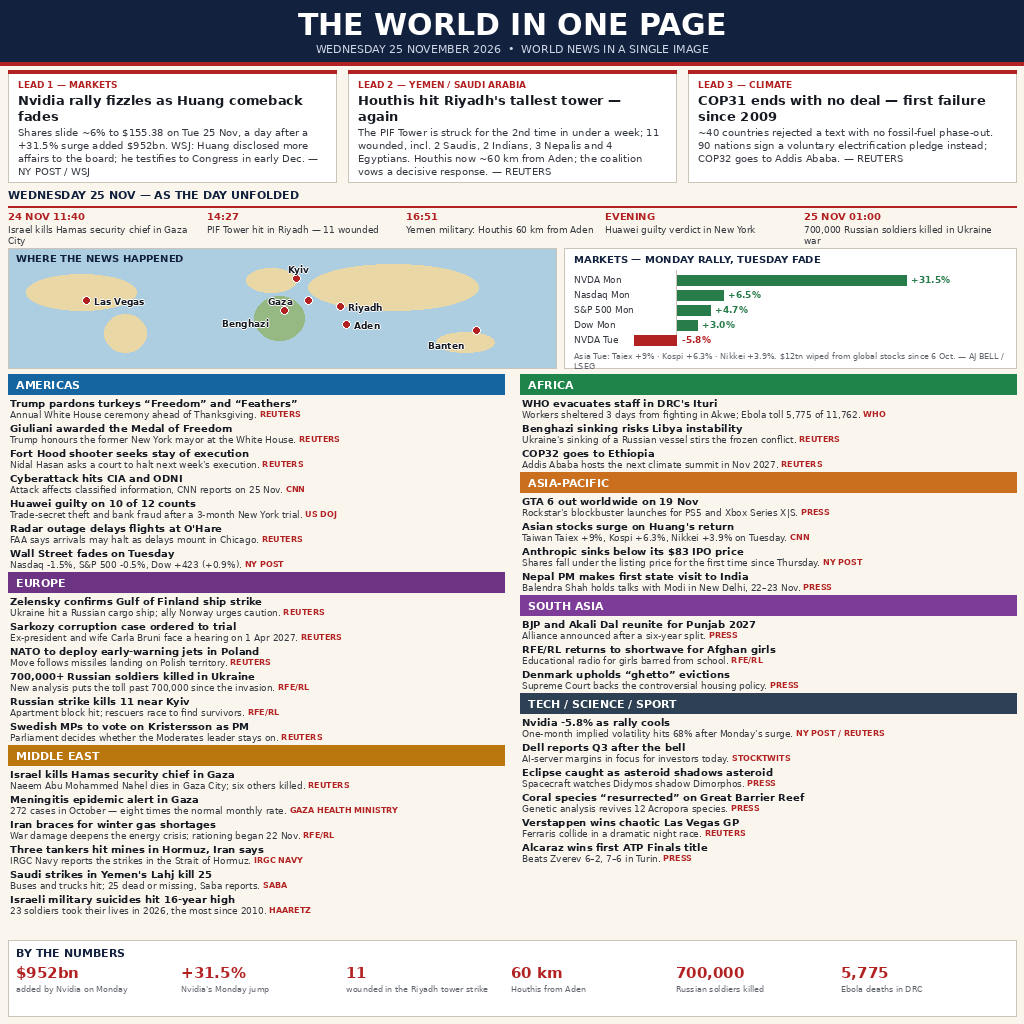
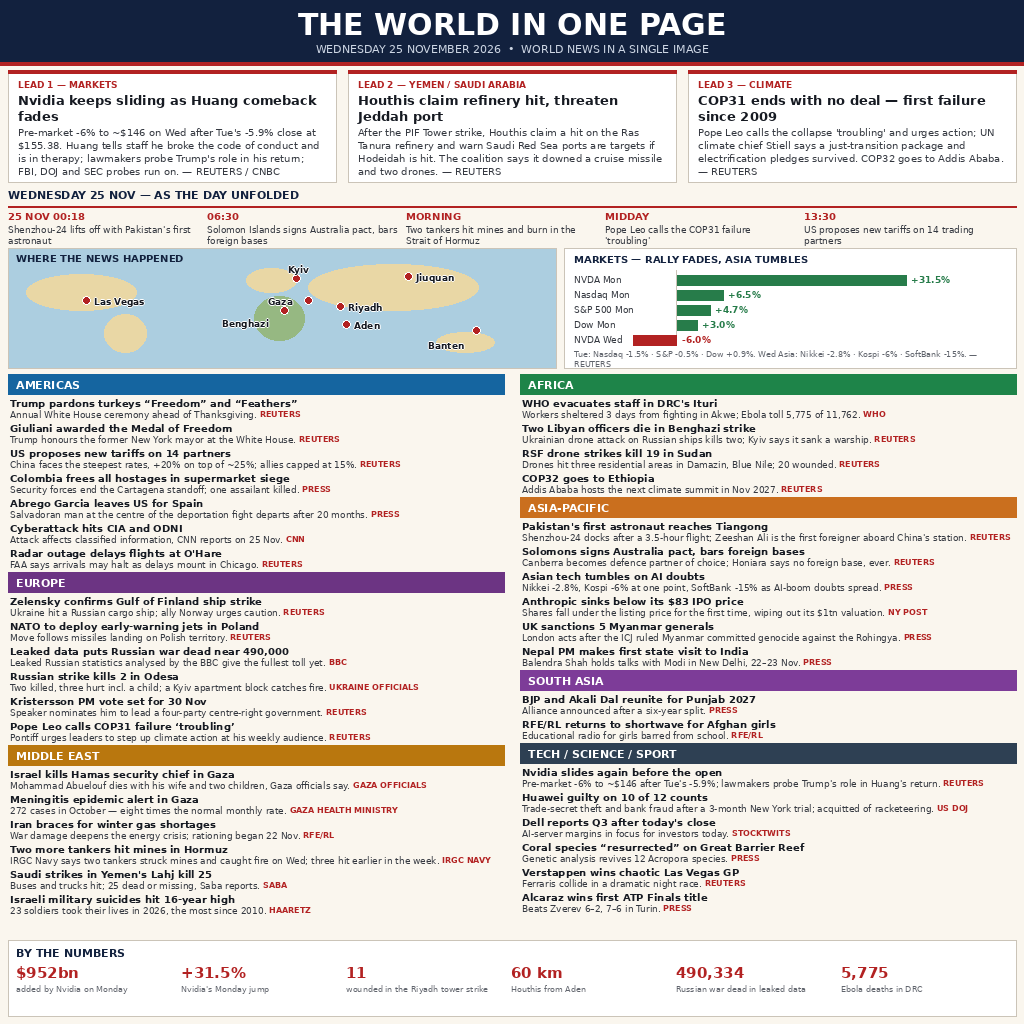
news-image-20261125: evening refresh, full day's news for Wed 25 Nov 2026
40 stories: Nvidia slide continues pre-market, Houthis claim Ras Tanura
hit, Hormuz tankers burn, Shenzhou-24 flies Pakistan's first astronaut,
Solomons signs Australia pact, US proposes tariffs on 14 partners.
Timeline, markets panel and By the Numbers updated; render verified
visually at full size.

diff --git a/draw_news.py b/draw_news.py
@@ -2,6 +2,10 @@
 """Render 'The World in One Page' — a dense 1024x1024 newspaper front page
 summarising the world news of Wednesday 25 November 2026.
 
+Evening refresh (21:00 WIB): the full day's news — Nvidia's slide continues,
+Houthi claims widen, Hormuz tankers burn, Shenzhou-24 flies, Solomons signs
+its Australia pact, and the US proposes new tariffs on 14 partners.
+
 Run:  python3 draw_news.py        -> writes entry.png next to this script.
 Only the Python standard library plus Pillow is used; fonts are the system
 DejaVu faces. Everything on the page is drawn from the story tables below.
@@ -120,28 +124,30 @@ class Column:
 # ---------------------------------------------------------------- content
 LEADS = [
     ("LEAD 1 — MARKETS",
-     "Nvidia rally fizzles as Huang comeback fades",
-     "Shares slide ~6% to $155.38 on Tue 25 Nov, a day after a +31.5% surge "
-     "added $952bn. WSJ: Huang disclosed more affairs to the board; he "
-     "testifies to Congress in early Dec. — NY POST / WSJ"),
+     "Nvidia keeps sliding as Huang comeback fades",
+     "Pre-market -6% to ~$146 on Wed after Tue's -5.9% close at $155.38. "
+     "Huang tells staff he broke the code of conduct and is in therapy; "
+     "lawmakers probe Trump's role in his return; FBI, DOJ and SEC probes "
+     "run on. — REUTERS / CNBC"),
     ("LEAD 2 — YEMEN / SAUDI ARABIA",
-     "Houthis hit Riyadh's tallest tower — again",
-     "The PIF Tower is struck for the 2nd time in under a week; 11 wounded, "
-     "incl. 2 Saudis, 2 Indians, 3 Nepalis and 4 Egyptians. Houthis now "
-     "~60 km from Aden; the coalition vows a decisive response. — REUTERS"),
+     "Houthis claim refinery hit, threaten Jeddah port",
+     "After the PIF Tower strike, Houthis claim a hit on the Ras Tanura "
+     "refinery and warn Saudi Red Sea ports are targets if Hodeidah is "
+     "hit. The coalition says it downed a cruise missile and two drones. "
+     "— REUTERS"),
     ("LEAD 3 — CLIMATE",
      "COP31 ends with no deal — first failure since 2009",
-     "~40 countries rejected a text with no fossil-fuel phase-out. 90 nations "
-     "sign a voluntary electrification pledge instead; COP32 goes to Addis "
-     "Ababa. — REUTERS"),
+     "Pope Leo calls the collapse 'troubling' and urges action; UN climate "
+     "chief Stiell says a just-transition package and electrification "
+     "pledges survived. COP32 goes to Addis Ababa. — REUTERS"),
 ]
 
 TIMELINE = [
-    ("24 NOV 11:40", "Israel kills Hamas security chief in Gaza City"),
-    ("14:27", "PIF Tower hit in Riyadh — 11 wounded"),
-    ("16:51", "Yemen military: Houthis 60 km from Aden"),
-    ("EVENING", "Huawei guilty verdict in New York"),
-    ("25 NOV 01:00", "700,000 Russian soldiers killed in Ukraine war"),
+    ("25 NOV 00:18", "Shenzhou-24 lifts off with Pakistan's first astronaut"),
+    ("06:30", "Solomon Islands signs Australia pact, bars foreign bases"),
+    ("MORNING", "Two tankers hit mines and burn in the Strait of Hormuz"),
+    ("MIDDAY", "Pope Leo calls the COP31 failure 'troubling'"),
+    ("13:30", "US proposes new tariffs on 14 trading partners"),
 ]
 
 # (panel title, colour, [(headline, body, source tag), ...])
@@ -151,40 +157,40 @@ REGIONS_LEFT = [
          "Annual White House ceremony ahead of Thanksgiving.", "REUTERS"),
         ("Giuliani awarded the Medal of Freedom",
          "Trump honours the former New York mayor at the White House.", "REUTERS"),
-        ("Fort Hood shooter seeks stay of execution",
-         "Nidal Hasan asks a court to halt next week's execution.", "REUTERS"),
+        ("US proposes new tariffs on 14 partners",
+         "China faces the steepest rates, +20% on top of ~25%; allies capped at 15%.", "REUTERS"),
+        ("Colombia frees all hostages in supermarket siege",
+         "Security forces end the Cartagena standoff; one assailant killed.", "PRESS"),
+        ("Abrego Garcia leaves US for Spain",
+         "Salvadoran man at the centre of the deportation fight departs after 20 months.", "PRESS"),
         ("Cyberattack hits CIA and ODNI",
          "Attack affects classified information, CNN reports on 25 Nov.", "CNN"),
-        ("Huawei guilty on 10 of 12 counts",
-         "Trade-secret theft and bank fraud after a 3-month New York trial.", "US DOJ"),
         ("Radar outage delays flights at O'Hare",
          "FAA says arrivals may halt as delays mount in Chicago.", "REUTERS"),
-        ("Wall Street fades on Tuesday",
-         "Nasdaq -1.5%, S&P 500 -0.5%, Dow +423 (+0.9%).", "NY POST"),
     ]),
     ("EUROPE", (108, 52, 131), [
         ("Zelensky confirms Gulf of Finland ship strike",
          "Ukraine hit a Russian cargo ship; ally Norway urges caution.", "REUTERS"),
-        ("Sarkozy corruption case ordered to trial",
-         "Ex-president and wife Carla Bruni face a hearing on 1 Apr 2027.", "REUTERS"),
         ("NATO to deploy early-warning jets in Poland",
          "Move follows missiles landing on Polish territory.", "REUTERS"),
-        ("700,000+ Russian soldiers killed in Ukraine",
-         "New analysis puts the toll past 700,000 since the invasion.", "RFE/RL"),
-        ("Russian strike kills 11 near Kyiv",
-         "Apartment block hit; rescuers race to find survivors.", "RFE/RL"),
-        ("Swedish MPs to vote on Kristersson as PM",
-         "Parliament decides whether the Moderates leader stays on.", "REUTERS"),
+        ("Leaked data puts Russian war dead near 490,000",
+         "Leaked Russian statistics analysed by the BBC give the fullest toll yet.", "BBC"),
+        ("Russian strike kills 2 in Odesa",
+         "Two killed, three hurt incl. a child; a Kyiv apartment block catches fire.", "UKRAINE OFFICIALS"),
+        ("Kristersson PM vote set for 30 Nov",
+         "Speaker nominates him to lead a four-party centre-right government.", "REUTERS"),
+        ("Pope Leo calls COP31 failure \u2018troubling\u2019",
+         "Pontiff urges leaders to step up climate action at his weekly audience.", "REUTERS"),
     ]),
     ("MIDDLE EAST", (185, 119, 14), [
         ("Israel kills Hamas security chief in Gaza",
-         "Naeem Abu Mohammed Nahel dies in Gaza City; six others killed.", "REUTERS"),
+         "Mohammad Abuelouf dies with his wife and two children, Gaza officials say.", "GAZA OFFICIALS"),
         ("Meningitis epidemic alert in Gaza",
          "272 cases in October — eight times the normal monthly rate.", "GAZA HEALTH MINISTRY"),
         ("Iran braces for winter gas shortages",
          "War damage deepens the energy crisis; rationing began 22 Nov.", "RFE/RL"),
-        ("Three tankers hit mines in Hormuz, Iran says",
-         "IRGC Navy reports the strikes in the Strait of Hormuz.", "IRGC NAVY"),
+        ("Two more tankers hit mines in Hormuz",
+         "IRGC Navy says two tankers struck mines and caught fire on Wed; three hit earlier in the week.", "IRGC NAVY"),
         ("Saudi strikes in Yemen's Lahj kill 25",
          "Buses and trucks hit; 25 dead or missing, Saba reports.", "SABA"),
         ("Israeli military suicides hit 16-year high",
@@ -196,18 +202,24 @@ REGIONS_RIGHT = [
     ("AFRICA", (30, 132, 73), [
         ("WHO evacuates staff in DRC's Ituri",
          "Workers sheltered 3 days from fighting in Akwe; Ebola toll 5,775 of 11,762.", "WHO"),
-        ("Benghazi sinking risks Libya instability",
-         "Ukraine's sinking of a Russian vessel stirs the frozen conflict.", "REUTERS"),
+        ("Two Libyan officers die in Benghazi strike",
+         "Ukrainian drone attack on Russian ships kills two; Kyiv says it sank a warship.", "REUTERS"),
+        ("RSF drone strikes kill 19 in Sudan",
+         "Drones hit three residential areas in Damazin, Blue Nile; 20 wounded.", "REUTERS"),
         ("COP32 goes to Ethiopia",
          "Addis Ababa hosts the next climate summit in Nov 2027.", "REUTERS"),
     ]),
     ("ASIA-PACIFIC", (202, 111, 30), [
-        ("GTA 6 out worldwide on 19 Nov",
-         "Rockstar's blockbuster launches for PS5 and Xbox Series X|S.", "PRESS"),
-        ("Asian stocks surge on Huang's return",
-         "Taiwan Taiex +9%, Kospi +6.3%, Nikkei +3.9% on Tuesday.", "CNN"),
+        ("Pakistan's first astronaut reaches Tiangong",
+         "Shenzhou-24 docks after a 3.5-hour flight; Zeeshan Ali is the first foreigner aboard China's station.", "REUTERS"),
+        ("Solomons signs Australia pact, bars foreign bases",
+         "Canberra becomes defence partner of choice; Honiara says no foreign base, ever.", "REUTERS"),
+        ("Asian tech tumbles on AI doubts",
+         "Nikkei -2.8%, Kospi -6% at one point, SoftBank -15% as AI-boom doubts spread.", "PRESS"),
         ("Anthropic sinks below its $83 IPO price",
-         "Shares fall under the listing price for the first time since Thursday.", "NY POST"),
+         "Shares fall under the listing price for the first time, wiping out its $1tn valuation.", "NY POST"),
+        ("UK sanctions 5 Myanmar generals",
+         "London acts after the ICJ ruled Myanmar committed genocide against the Rohingya.", "PRESS"),
         ("Nepal PM makes first state visit to India",
          "Balendra Shah holds talks with Modi in New Delhi, 22\u201323 Nov.", "PRESS"),
     ]),
@@ -216,16 +228,14 @@ REGIONS_RIGHT = [
          "Alliance announced after a six-year split.", "PRESS"),
         ("RFE/RL returns to shortwave for Afghan girls",
          "Educational radio for girls barred from school.", "RFE/RL"),
-        ("Denmark upholds \u201cghetto\u201d evictions",
-         "Supreme Court backs the controversial housing policy.", "PRESS"),
     ]),
     ("TECH / SCIENCE / SPORT", (46, 64, 83), [
-        ("Nvidia -5.8% as rally cools",
-         "One-month implied volatility hits 68% after Monday's surge.", "NY POST / REUTERS"),
-        ("Dell reports Q3 after the bell",
+        ("Nvidia slides again before the open",
+         "Pre-market -6% to ~$146 after Tue's -5.9%; lawmakers probe Trump's role in Huang's return.", "REUTERS"),
+        ("Huawei guilty on 10 of 12 counts",
+         "Trade-secret theft and bank fraud after a 3-month New York trial; acquitted of racketeering.", "US DOJ"),
+        ("Dell reports Q3 after today's close",
          "AI-server margins in focus for investors today.", "STOCKTWITS"),
-        ("Eclipse caught as asteroid shadows asteroid",
-         "Spacecraft watches Didymos shadow Dimorphos.", "PRESS"),
         ("Coral species \u201cresurrected\u201d on Great Barrier Reef",
          "Genetic analysis revives 12 Acropora species.", "PRESS"),
         ("Verstappen wins chaotic Las Vegas GP",
@@ -240,7 +250,7 @@ NUMBERS = [
     ("+31.5%", "Nvidia's Monday jump"),
     ("11", "wounded in the Riyadh tower strike"),
     ("60 km", "Houthis from Aden"),
-    ("700,000", "Russian soldiers killed"),
+    ("490,334", "Russian war dead in leaked data"),
     ("5,775", "Ebola deaths in DRC"),
 ]
 
@@ -250,7 +260,7 @@ BARS = [
     ("Nasdaq Mon", 6.5, GREEN),
     ("S&P 500 Mon", 4.7, GREEN),
     ("Dow Mon", 3.0, GREEN),
-    ("NVDA Tue", -5.8, RED),
+    ("NVDA Wed", -6.0, RED),
 ]
 
 # schematic map: (label, dot x, dot y, label dx, label dy) in panel coords
@@ -261,6 +271,7 @@ MAP_DOTS = [
     ("Benghazi", 276, 62, -62, 8),
     ("Riyadh", 332, 58, 8, -4),
     ("Aden", 338, 76, 8, -4),
+    ("Jiuquan", 400, 28, 8, -4),
     ("Banten", 468, 82, -48, 10),
 ]
 
@@ -327,7 +338,7 @@ def draw_markets(s):
     px, py, pw, ph = 564, 248, 452, 120
     d = s.d
     d.rectangle([px, py, px + pw, py + ph], fill=CARD, outline=EDGE)
-    s.text((px + 10, py + 5), "MARKETS \u2014 MONDAY RALLY, TUESDAY FADE",
+    s.text((px + 10, py + 5), "MARKETS \u2014 RALLY FADES, ASIA TUMBLES",
            10, bold=True, fill=NAVY)
     axis = px + 112
     top = py + 26
@@ -343,9 +354,9 @@ def draw_markets(s):
         else:
             d.rectangle([axis - bar, yy + 1, axis, yy + 11], fill=col)
             d.text((axis + 6, yy), f"{val}%", font=fnt(9, True), fill=col)
-    s.para(px + 10, top + 5 * 15 + 2, pw - 20,
-           "Asia Tue: Taiex +9% \u00b7 Kospi +6.3% \u00b7 Nikkei +3.9%. "
-           "$12tn wiped from global stocks since 6 Oct. \u2014 AJ BELL / LSEG",
+    s.para(px + 10, top + 5 * 15, pw - 20,
+           "Tue: Nasdaq -1.5% \u00b7 S&P -0.5% \u00b7 Dow +0.9%. Wed Asia: "
+           "Nikkei -2.8% \u00b7 Kospi -6% \u00b7 SoftBank -15%. \u2014 REUTERS",
            8, fill=GREY, leading=10)
 
 
